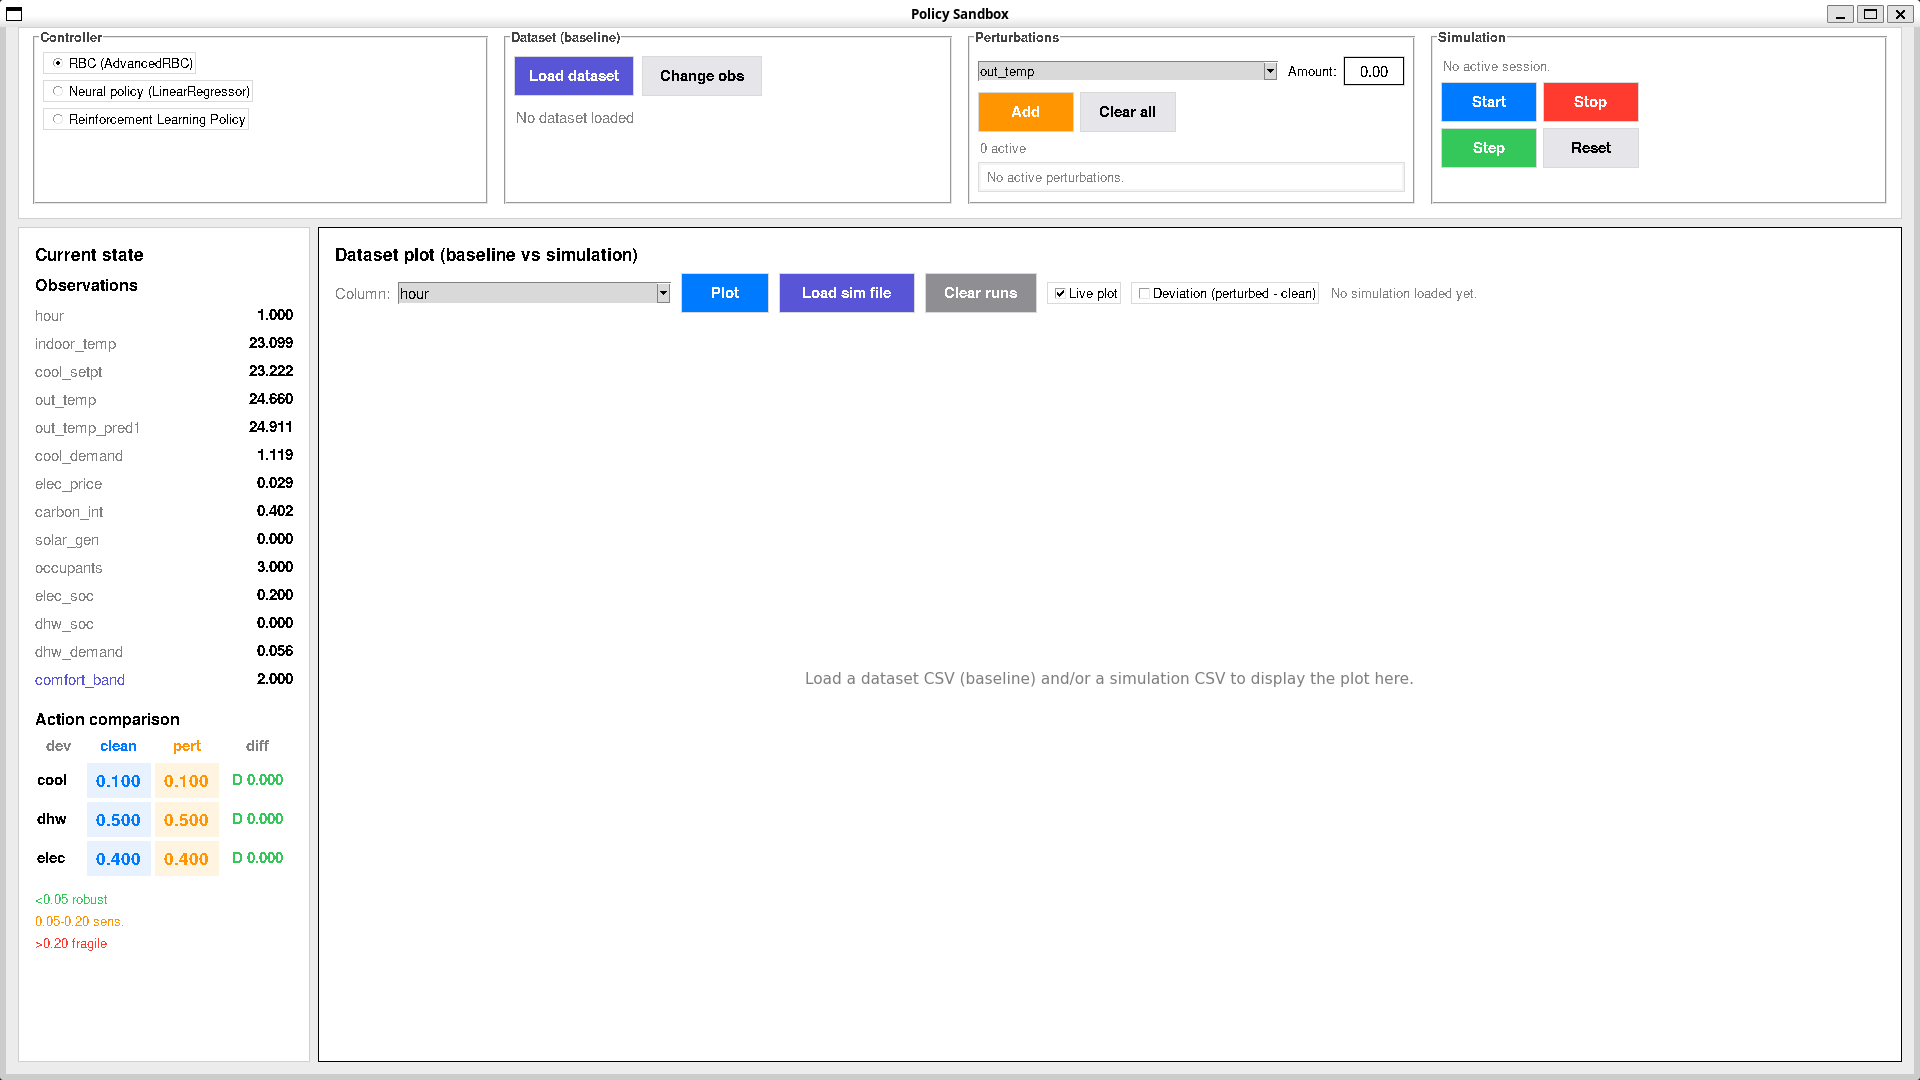
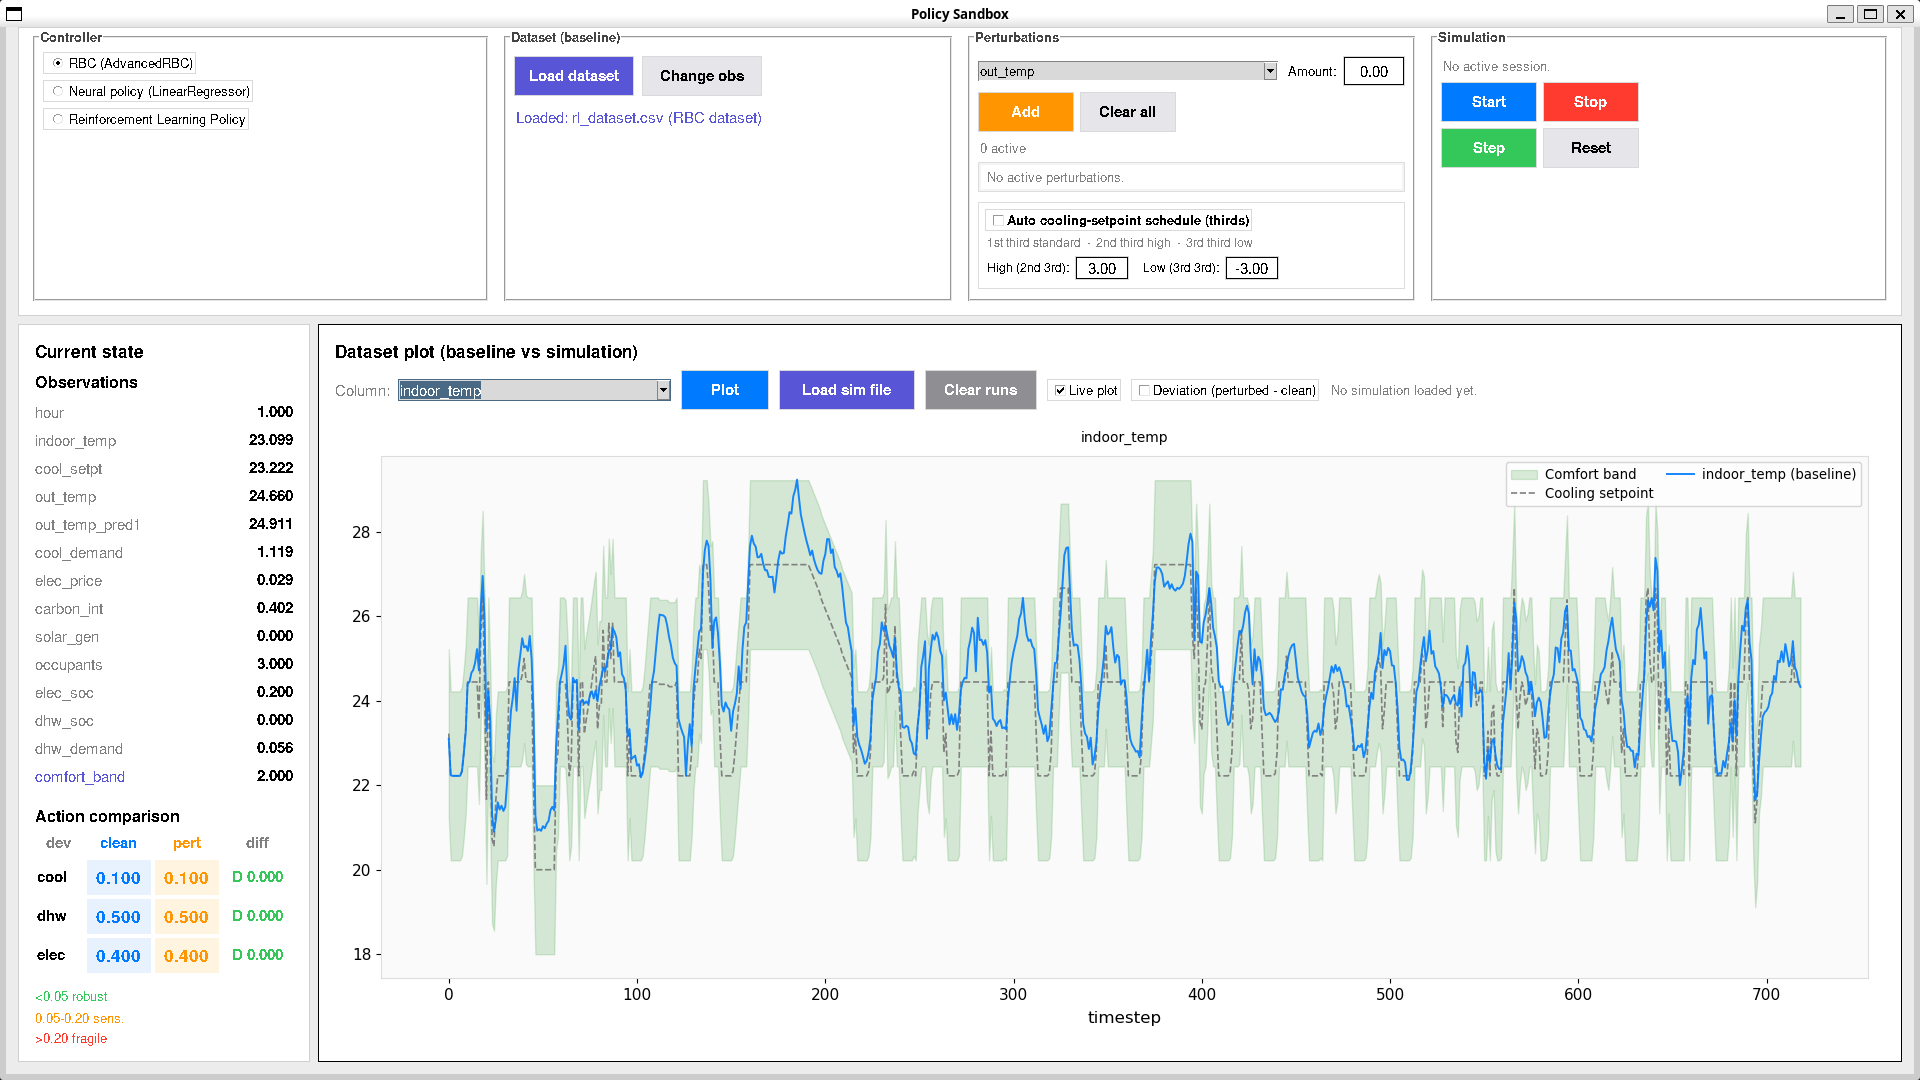
feat: add delta summary script and robustness test documentation
- Add make_delta_table.py to generate per-run CSVs summarising mean cooling_setpoint_delta by schedule phase and overall episode.
- Implement dynamic phase boundary parsing from the 'perturbations' column and automated sorting (RBC -> Regressor -> RL).
- Document the 7-run setpoint perturbation test in the README.

diff --git a/src/make_delta_table.py b/src/make_delta_table.py
@@ -1,0 +1,159 @@
+"""
+Builds a summary CSV table of mean cooling_setpoint_delta per policy/seed,
+split into the three schedule phases (standard / high / low) plus an
+overall-mean column, for the thesis presentation.
+ 
+Usage
+-----
+    python make_delta_table.py <folder_with_csvs> [-o output.csv]
+ 
+Expects one CSV per run (as produced by gui.py), each containing at least:
+    - "policy"              (constant per file: "rbc" / "neural" / "RL")
+    - "perturbations"       (per-step JSON list, used to find phase
+                              boundaries — see _phase_segments)
+    - "cooling_setpoint_delta"   (the per-step delta already saved by gui.py)
+ 
+The three phases are found dynamically from the "perturbations" column of
+EACH file (not assumed to be fixed-length thirds), so the table stays
+correct even if a run's episode length or phase split differs slightly.
+"""
+
+import argparse
+import json 
+import re 
+import sys 
+from pathlib import Path 
+
+import pandas as pd
+
+DELTA_COL   = "cooling_setpoint_delta"
+SP_COL      = "indoor_dry_bulb_temperature_cooling_set_point"
+
+POLICY_ORDER    = {"rbc": 0, "neural": 1, "rl":2}
+POLICY_DISPLAY  = {"rbc": "RBC", "neural": "Regressor", "rl": "RL"}
+
+def _sp_amount_series(pert_col) -> list[float]:
+    """
+    Per-step cooling-setpoint perturbation amount declared in the
+    'perturbations' meta-column (0.0 where the setpoint wasn't perturbed),
+    same logic gui.py uses to draw the phase markers on its own plots.
+    """
+    out = []
+    for raw in pert_col:
+        amt = 0.0
+        s = str(raw).strip() if raw is not None else ""
+        if s and s not in ("[]", "nan", "None", "null"):
+            try:
+                for p in json.loads(s):
+                    if p.get("feat") == SP_COL:
+                        amt = float(p.get("amount", 0.0))
+            except Exception:
+                pass
+        out.append(amt)
+
+    return out
+
+def _phase_segments(amounts: list[float]) -> list[tuple[int, int, float]]:
+    """
+    [(start_idx, end_idx_exclusive, amount), ...] — contiguous runs of a
+    constant cooling-setpoint perturbation amount.
+    """
+    segments = []
+    if not amounts:
+        return segments
+    start, cur = 0, amounts[0]
+    for i in range(1, len(amounts)):
+        if amounts[i] != cur:
+            segments.append((start, i, cur))
+            start, cur = i, amounts[i]
+    segments.append((start, len(amounts), cur))
+
+    return segments
+
+def _row_label(policy: str, path: Path) -> str:
+    policy_key = policy.strip().lower()
+    display = POLICY_DISPLAY.get(policy_key, policy)
+    m = re.search(r"seed[_-]?(\d+)", path.stem, re.IGNORECASE)
+    if policy_key == 'rbc' or not m:
+        return display
+
+    return f"{display} (seed {m.group(1)})"
+
+def _sort_key(row: dict, path: Path):
+    policy_key = row["_policy_key"]
+    m = re.search(r"seed[_-]?(\d+)", path.stem, re.IGNORECASE)
+    seed = int(m.group(1)) if m else -1
+
+    return (POLICY_ORDER.get(policy_key, 99), seed)
+
+def compute_row(path: Path) -> dict:
+    df = pd.read_csv(path)
+ 
+    if DELTA_COL not in df.columns:
+        raise ValueError(f"{path.name}: missing column '{DELTA_COL}'")
+    if "perturbations" not in df.columns:
+        raise ValueError(f"{path.name}: missing column 'perturbations'")
+    if "policy" not in df.columns:
+        raise ValueError(f"{path.name}: missing column 'policy'")
+ 
+    amounts  = _sp_amount_series(df["perturbations"].tolist())
+    segments = _phase_segments(amounts)
+ 
+    thirds = []
+    for i in range(3):
+        if i < len(segments):
+            start, end, _ = segments[i]
+            thirds.append(df[DELTA_COL].iloc[start:end].mean())
+        else:
+            thirds.append(float("nan"))
+ 
+    policy = str(df["policy"].iloc[0])
+    return {
+        "_policy_key": policy.strip().lower(),
+        "Run": _row_label(policy, path),
+        "Mean delta - phase 1": thirds[0],
+        "Mean delta - phase 2": thirds[1],
+        "Mean delta - phase 3": thirds[2],
+        "Mean delta - overall": df[DELTA_COL].mean(),
+    }
+ 
+ 
+def main():
+    ap = argparse.ArgumentParser(description=__doc__,
+                                  formatter_class=argparse.RawDescriptionHelpFormatter)
+    ap.add_argument("folder", help="Folder containing the run CSVs")
+    ap.add_argument("-o", "--output", default="delta_summary_table.csv",
+                     help="Output CSV path (default: delta_summary_table.csv "
+                          "inside the input folder)")
+    args = ap.parse_args()
+ 
+    folder = Path(args.folder)
+    files = sorted(folder.glob("*.csv"))
+    if not files:
+        sys.exit(f"No CSV files found in {folder}")
+ 
+    rows = []
+    for f in files:
+        try:
+            rows.append((compute_row(f), f))
+        except Exception as e:
+            print(f"  [skipped] {f.name}: {e}", file=sys.stderr)
+ 
+    if not rows:
+        sys.exit("No valid run CSVs could be processed.")
+ 
+    rows.sort(key=lambda rf: _sort_key(rf[0], rf[1]))
+ 
+    table = pd.DataFrame([r for r, _ in rows]).drop(columns=["_policy_key"])
+ 
+    out_path = Path(args.output)
+    if not out_path.is_absolute() and out_path.parent == Path("."):
+        out_path = folder / out_path
+    table.to_csv(out_path, index=False, float_format="%.4f")
+ 
+    print(table.to_string(index=False))
+    print(f"\nSaved -> {out_path}")
+ 
+ 
+if __name__ == "__main__":
+    main()

diff --git a/README.md b/README.md
@@ -242,3 +242,50 @@ explicit. Kept as a reference for whenever a new per-building state variable nee
 be read correctly after a step. See [Diagnostics](#diagnostics) above.
 
 ---
+
+## Final Robustness Test — Cooling Setpoint Perturbation
+ 
+The last stage of the pipeline evaluates which controller adapts best when the
+`cooling_device` target is shifted away from the range it was designed/trained
+around, using the GUI's automated cooling-setpoint schedule (three phases per
+episode: standard, then perturbed +X°C, then perturbed −X°C, split by episode
+thirds).
+ 
+**Test description**
+
+Each policy is run for a full episode with the setpoint schedule active:
+ 
+- **AdvancedRBC**: 1 run (deterministic — no seed dependence).
+- **LinearRegressor**: 3 runs, one per random seed.
+- **RL agent (Omnisafe PPOLag)**: 3 runs, one per random seed.
+Each run is saved as a CSV under `data/simulations/` (`pert_setpoint_<policy>[_seed_<N>].csv`),
+including a per-timestep `cooling_setpoint_delta` column (indoor temperature minus
+whichever setpoint — standard or perturbed — is actually in effect at that step).
+
+![Perturbation test example](material/test_example.png)
+
+**Expected results**
+ 
+A policy that adapts well to the shifted target should keep the mean deviation
+between indoor temperature and the setpoint *currently in use* close to its
+standard-phase value across all three phases — cooling less when the setpoint is
+raised, more when it's lowered. A policy that instead keeps tracking the
+*original* setpoint (or worse, responds in the wrong direction) will show a much
+larger mean delta in the perturbed phases than in the standard phase. Comparing
+the three phase-wise means (plus the overall episode mean) across all 7 runs is
+what the summary table below is designed to make visible at a glance.
+
+**Summary table**
+ 
+Generated with `src/make_delta_table.py` from the 7 run CSVs, one row per
+policy/seed and one column per schedule phase plus the overall mean:
+ 
+```console
+python make_delta_table.py ../data/simulations/
+```
+ 
+produces `data/simulations/delta_summary_table.csv`:
+
+![Delta summary table](material/delta_summary_table.png)
+
+---
